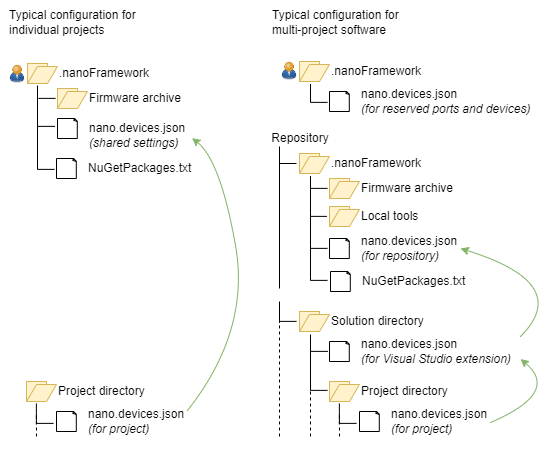
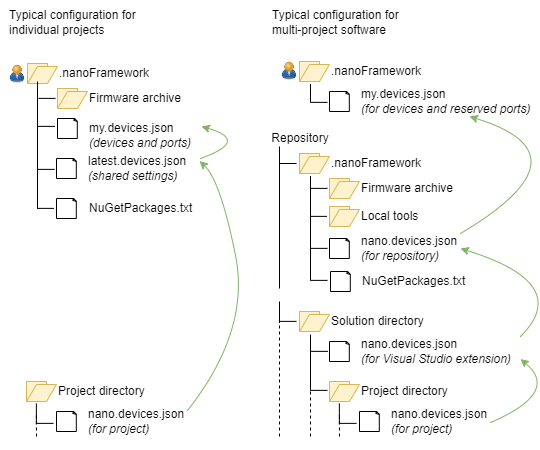
No automatic import of user nano.devices.json

diff --git a/content/versioning/nano-devices-json.md b/content/versioning/nano-devices-json.md
@@ -78,37 +78,38 @@ The configuration files are read in a particular order:
     - If *DeviceTypeTargets* is present in both files, the lists are merged. In case the same name is present in both lists, the value from the imported file is overwritten. To remove a name from the list, set its value to `null`.
     - If *Devices* is present in both files, the lists are merged. In case the same device is present in both lists, the value from the imported file is overwritten by the name and firmware if those are provided. To remove a device from the list, set its value to `null`.
 - This is done recursively: if the imported file has a *Import*, the configuration file in that directory is read first.
-- If the file `%USERPROFILE%\.nanoFramework\nano.devices.json` exists, that file is read. The *Devices* and *ReservedSerialPorts* are added to the configuration.
 
 The figure at the top of the page illustrates the hierarchy of configuration files.
 
 If you adopt the daily update strategy, a typical use of `nano.devices.json` configurations is:
 
-- In `%USERPROFILE%\.nanoFramework\nano.devices.json` you specify:
-    - *NuGetPackageList*.
-    - *FirmwareArchivePath*.
-    - *DeviceTypeTargets*: the device types you use in your projects.
+- In `%USERPROFILE%\.nanoFramework\my.devices.json` you specify:
     - *Devices*: the devices available for debugging and testing.
     - *ReservedSerialPorts*: all serial ports that never are used on this machine to connect a real hardware nanoDevice to, but that are used when other devices are connected to the machine.
+- In `%USERPROFILE%\.nanoFramework\latest.devices.json` you specify:
+	- *Import* of `my.devices.json`
+    - *NuGetPackageList*.
+    - *FirmwareArchivePath*.
 - In `nano.devices.json` in a project directory you specify:
-    - *Import* = `%USERPROFILE%/.nanoFramework`.
-    - *DeviceTypes* and/or *Platforms*: the device types you use in the project.
+    - *Import* of `%USERPROFILE%/.nanoFramework/latest.devices.json`.
+    - *DeviceTypes*/*DeviceTypeTargets* and/or *Platforms*: the device types you use in the project.
 
 If you adopt the controlled update strategy, the configuration files are part of the (git) repository. A typical use of `nano.devices.json` configurations is:
 
+- In `%USERPROFILE%\.nanoFramework\my.devices.json` you specify:
+    - *Devices*: the devices available for debugging and testing.
+    - *ReservedSerialPorts*: all serial ports that never are used on this machine to connect a real hardware nanoDevice to, but that are used when other devices are connected to the machine.
 - In a repository-wide `nano.devices.json` you specify:
+    - *Import* of `%USERPROFILE%/.nanoFramework/my.devices.json`.
     - *NuGetPackageList*. 
     - *FirmwareArchivePath*.
     - *DeviceTypeTargets*: the device types you use in your projects.
     - *NanoFFPath* if is is relevant to the projects in the repository.
 - In `nano.devices.json` in a solution directory you specify:
-    - *Import* = path to the repository-wide `nano.devices.json` file.
+    - *Import* of: path to the repository-wide `nano.devices.json` file.
 - In `nano.devices.json` in a project directory you specify:
-    - *Import* = path to the repository-wide `nano.devices.json` file or to the `nano.devices.json` file in the solution directory.
+    - *Import* of: path to the repository-wide `nano.devices.json` file or to the `nano.devices.json` file in the solution directory.
     - *DeviceTypes* and/or *Platforms*: the device types you use in the project.
-- In `%USERPROFILE%\.nanoFramework\nano.devices.json` you specify:
-    - *Devices*: the devices available for debugging and testing.
-    - *ReservedSerialPorts*: all serial ports that never are used on this machine to connect a real hardware nanoDevice to, but that are used when other devices are connected to the machine.
 
 ## Settings used by nanoFramework tools
 
